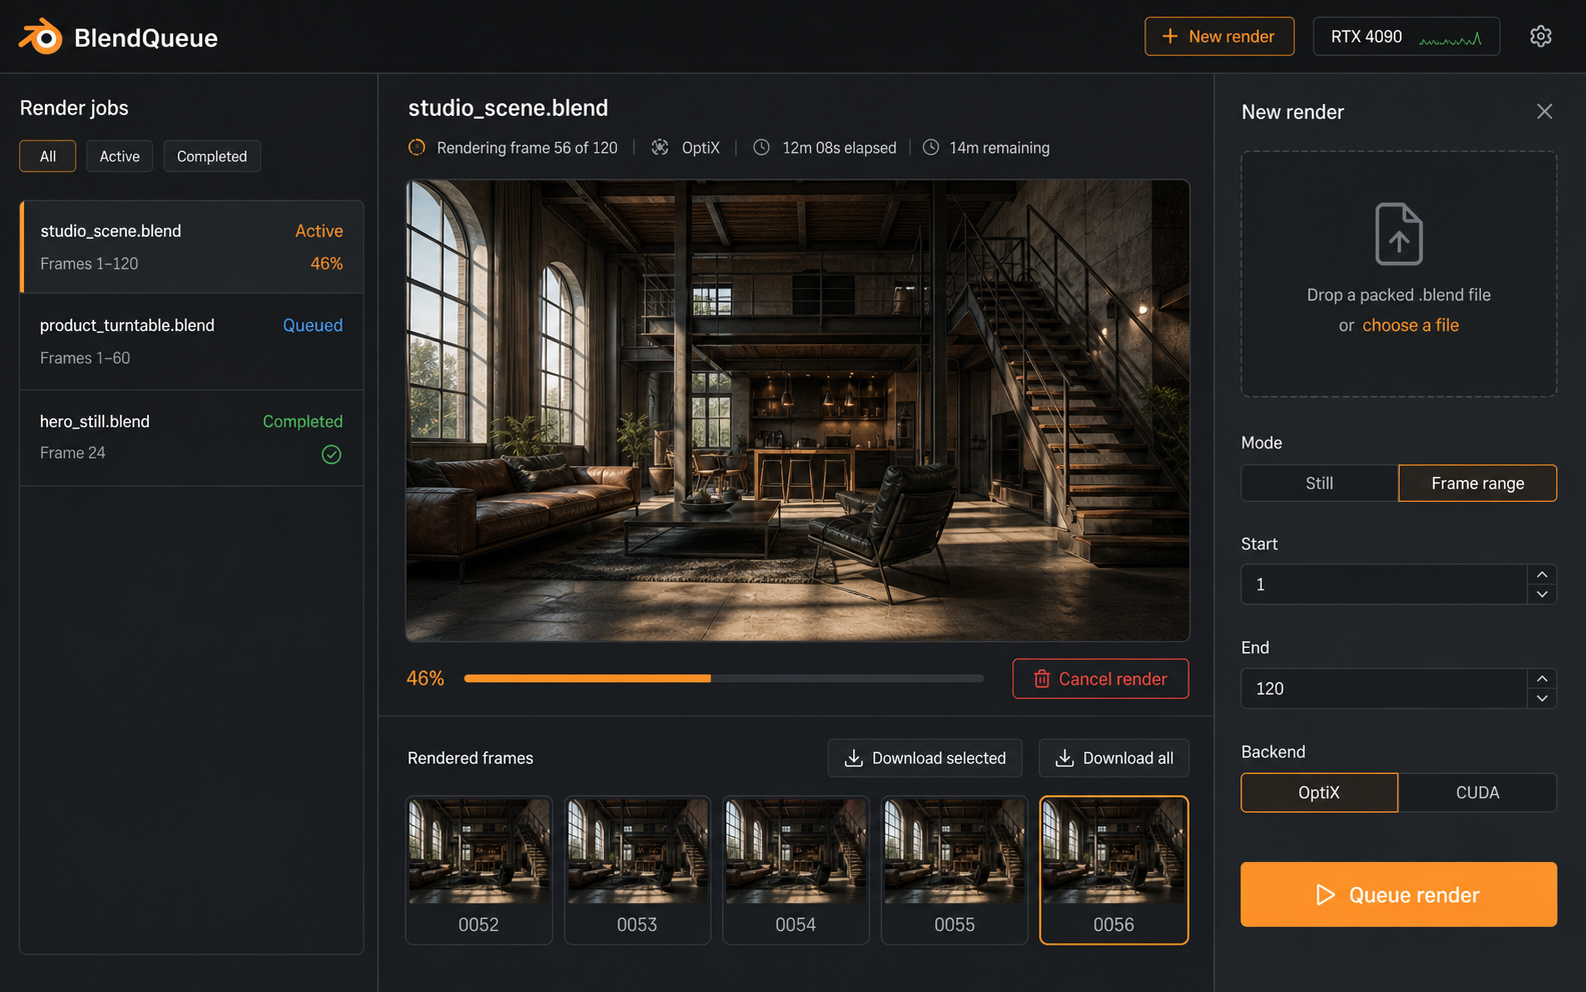
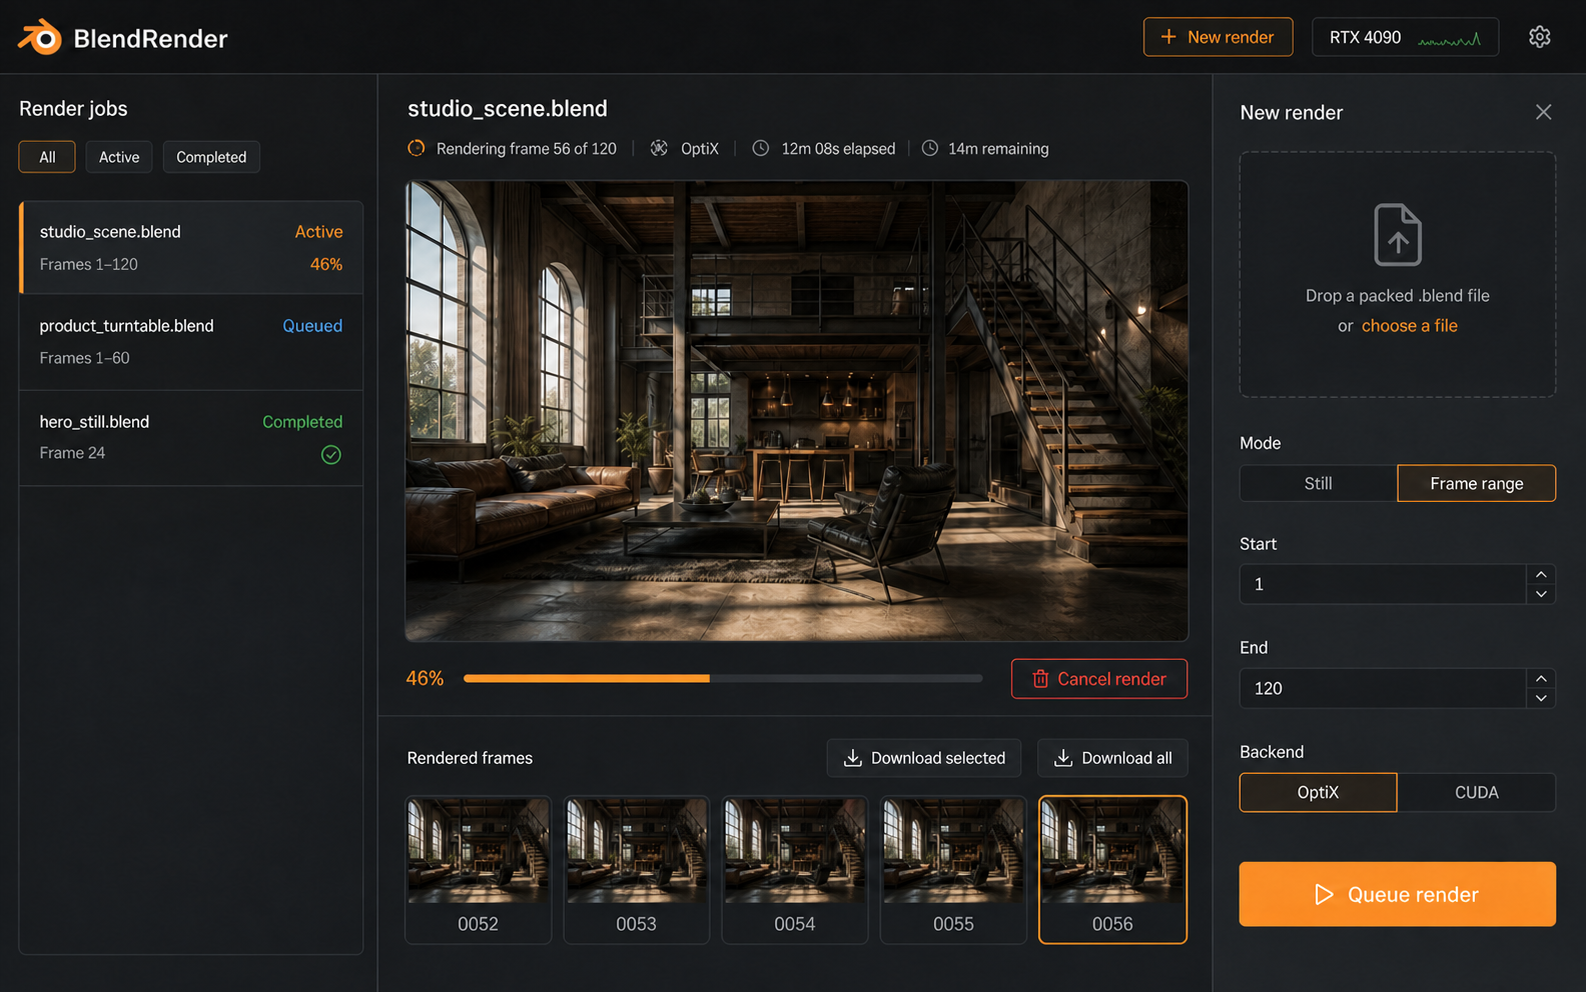
rename to BlendRender

diff --git a/frontend/src/App.tsx b/frontend/src/App.tsx
@@ -30,8 +30,7 @@ export default function App() {
     setAuthenticated(false)
   }
 
-  if (authenticated === null) return <div className="boot-screen"><span className="boot-screen__spinner" /><span>Opening BlendQueue</span></div>
+  if (authenticated === null) return <div className="boot-screen"><span className="boot-screen__spinner" /><span>Opening BlendRender</span></div>
   if (!authenticated) return <LoginPage onLogin={login} />
   return <Dashboard demo={demoMode} onLogout={logout} />
 }
-

diff --git a/frontend/src/components/Brand.tsx b/frontend/src/components/Brand.tsx
@@ -1,11 +1,10 @@
-import mark from '../assets/blendqueue-mark.png'
+import mark from '../assets/blendrender-mark.png'
 
 export function Brand() {
   return (
-    <div className="brand" aria-label="BlendQueue">
+    <div className="brand" aria-label="BlendRender">
       <img src={mark} alt="" className="brand__mark" />
-      <span>BlendQueue</span>
+      <span>BlendRender</span>
     </div>
   )
 }
-

diff --git a/frontend/index.html b/frontend/index.html
@@ -4,11 +4,10 @@
     <meta charset="UTF-8" />
     <meta name="viewport" content="width=device-width, initial-scale=1.0" />
     <meta name="theme-color" content="#0d1013" />
-    <title>BlendQueue</title>
+    <title>BlendRender</title>
   </head>
   <body>
     <div id="root"></div>
     <script type="module" src="/src/main.tsx"></script>
   </body>
 </html>
-

diff --git a/tests/test_blender_smoke.py b/tests/test_blender_smoke.py
@@ -7,7 +7,7 @@ import subprocess
 from pathlib import Path
 
 import pytest
-from blendqueue.worker import frame_filename
+from blendrender.worker import frame_filename
 from PIL import Image
 
 
@@ -77,7 +77,7 @@ bpy.ops.wm.save_as_mainfile(filepath=sys.argv[sys.argv.index("--") + 1])
         ),
         encoding="utf-8",
     )
-    renderer = Path(__file__).resolve().parents[1] / "renderer" / "blendqueue_render.py"
+    renderer = Path(__file__).resolve().parents[1] / "renderer" / "blendrender_render.py"
     completed = subprocess.run(
         [
             blender,
@@ -97,8 +97,8 @@ bpy.ops.wm.save_as_mainfile(filepath=sys.argv[sys.argv.index("--") + 1])
         timeout=120,
     )
 
-    assert 'BLENDQUEUE_EVENT {"type": "frame_started", "frame": 1}' in completed.stdout
-    assert 'BLENDQUEUE_EVENT {"type": "frame_completed", "frame": 1' in completed.stdout
+    assert 'BLENDRENDER_EVENT {"type": "frame_started", "frame": 1}' in completed.stdout
+    assert 'BLENDRENDER_EVENT {"type": "frame_completed", "frame": 1' in completed.stdout
     output = output_dir / frame_filename(1)
     with Image.open(output) as image:
         assert image.format == "PNG"

diff --git a/scripts/e2e_backend.py b/scripts/e2e_backend.py
@@ -65,7 +65,7 @@ class Client:
 
 
 def multipart_job(blend_path: Path) -> tuple[bytes, str]:
-    boundary = f"blendqueue-e2e-{uuid.uuid4().hex}"
+    boundary = f"blendrender-e2e-{uuid.uuid4().hex}"
     parts: list[bytes] = []
 
     def field(name: str, value: str) -> None:
@@ -102,7 +102,7 @@ def multipart_job(blend_path: Path) -> tuple[bytes, str]:
 
 
 def main() -> None:
-    parser = argparse.ArgumentParser(description="Exercise BlendQueue through its public API")
+    parser = argparse.ArgumentParser(description="Exercise BlendRender through its public API")
     parser.add_argument("--base-url", required=True)
     parser.add_argument("--password", required=True)
     parser.add_argument("--blend", type=Path, required=True)
@@ -166,7 +166,7 @@ def main() -> None:
 
     client.request("DELETE", f"/api/jobs/{job_id}", expected=204)
     client.request("GET", f"/api/jobs/{job_id}", expected=404)
-    print("BlendQueue backend E2E passed", flush=True)
+    print("BlendRender backend E2E passed", flush=True)
 
 
 if __name__ == "__main__":

diff --git a/backend/blendrender/config.py b/backend/blendrender/config.py
@@ -39,10 +39,10 @@ class Settings:
         )
         return cls(
             app_password=password,
-            data_root=Path(os.getenv("DATA_ROOT", "/var/lib/blendqueue")).resolve(),
+            data_root=Path(os.getenv("DATA_ROOT", "/var/lib/blendrender")).resolve(),
             blender_bin=Path(os.getenv("BLENDER_BIN", "/opt/blender/blender")),
             renderer_script=Path(
-                os.getenv("RENDERER_SCRIPT", str(project_root / "renderer/blendqueue_render.py"))
+                os.getenv("RENDERER_SCRIPT", str(project_root / "renderer/blendrender_render.py"))
             ).resolve(),
             frontend_dist=Path(
                 os.getenv("FRONTEND_DIST", str(project_root / "frontend/dist"))
@@ -56,7 +56,7 @@ class Settings:
 
     @property
     def database_path(self) -> Path:
-        return self.data_root / "blendqueue.sqlite3"
+        return self.data_root / "blendrender.sqlite3"
 
     @property
     def jobs_root(self) -> Path:

diff --git a/backend/blendrender/auth.py b/backend/blendrender/auth.py
@@ -8,14 +8,14 @@ from collections import deque
 from fastapi import HTTPException, Request, Response, status
 from itsdangerous import BadSignature, SignatureExpired, URLSafeTimedSerializer
 
-COOKIE_NAME = "blendqueue_session"
+COOKIE_NAME = "blendrender_session"
 
 
 class SessionManager:
     def __init__(self, password: str, *, secure: bool, max_age: int):
-        secret = hashlib.sha256(f"blendqueue-session-v1:{password}".encode()).hexdigest()
+        secret = hashlib.sha256(f"blendrender-session-v1:{password}".encode()).hexdigest()
         self._password = password
-        self._serializer = URLSafeTimedSerializer(secret, salt="blendqueue-cookie-v1")
+        self._serializer = URLSafeTimedSerializer(secret, salt="blendrender-cookie-v1")
         self._secure = secure
         self._max_age = max_age
         self._failures: deque[float] = deque()

diff --git a/renderer/blendrender_render.py b/renderer/blendrender_render.py
@@ -1,4 +1,4 @@
-"""Executed inside Blender to configure and render a BlendQueue job."""
+"""Executed inside Blender to configure and render a BlendRender job."""
 
 from __future__ import annotations
 
@@ -11,7 +11,7 @@ from pathlib import Path
 
 import bpy
 
-PREFIX = "BLENDQUEUE_EVENT "
+PREFIX = "BLENDRENDER_EVENT "
 
 
 def emit(event_type: str, **payload: object) -> None:
@@ -20,7 +20,7 @@ def emit(event_type: str, **payload: object) -> None:
 
 def config_path() -> Path:
     if "--" not in sys.argv:
-        raise RuntimeError("Missing BlendQueue render configuration")
+        raise RuntimeError("Missing BlendRender render configuration")
     arguments = sys.argv[sys.argv.index("--") + 1 :]
     if len(arguments) != 1:
         raise RuntimeError("Expected exactly one render configuration path")

diff --git a/backend/blendrender/main.py b/backend/blendrender/main.py
@@ -72,7 +72,7 @@ def create_app(settings: Settings | None = None, *, start_worker: bool = True) -
             await worker.stop()
 
     app = FastAPI(
-        title="BlendQueue",
+        title="BlendRender",
         version="0.1.0",
         docs_url=None,
         redoc_url=None,
@@ -346,7 +346,7 @@ async def _require_job(database: Database, job_id: str) -> Job:
 
 
 def _create_archive(settings: Settings, job: Job, frames: list[int]) -> Path:
-    handle, name = tempfile.mkstemp(prefix=f"blendqueue-{job.id}-", suffix=".zip")
+    handle, name = tempfile.mkstemp(prefix=f"blendrender-{job.id}-", suffix=".zip")
     os.close(handle)
     archive = Path(name)
     try:

diff --git a/tests/test_progress.py b/tests/test_progress.py
@@ -1,8 +1,8 @@
-from blendqueue.progress import overall_progress, parse_renderer_line
+from blendrender.progress import overall_progress, parse_renderer_line
 
 
 def test_parses_machine_event() -> None:
-    parsed = parse_renderer_line('BLENDQUEUE_EVENT {"type":"frame_started","frame":12}\n')
+    parsed = parse_renderer_line('BLENDRENDER_EVENT {"type":"frame_started","frame":12}\n')
     assert parsed.event == {"type": "frame_started", "frame": 12}
 
 

diff --git a/backend/blendrender/worker.py b/backend/blendrender/worker.py
@@ -80,7 +80,7 @@ class RenderWorker:
         self._current_job_id: str | None = None
 
     async def start(self) -> None:
-        self._task = asyncio.create_task(self._loop(), name="blendqueue-render-worker")
+        self._task = asyncio.create_task(self._loop(), name="blendrender-render-worker")
         self._wake.set()
 
     async def stop(self) -> None:

diff --git a/tests/test_api.py b/tests/test_api.py
@@ -3,8 +3,8 @@ from __future__ import annotations
 import io
 import zipfile
 
-from blendqueue.main import create_app
-from blendqueue.worker import frame_filename, job_paths
+from blendrender.main import create_app
+from blendrender.worker import frame_filename, job_paths
 from fastapi.testclient import TestClient
 from PIL import Image
 
